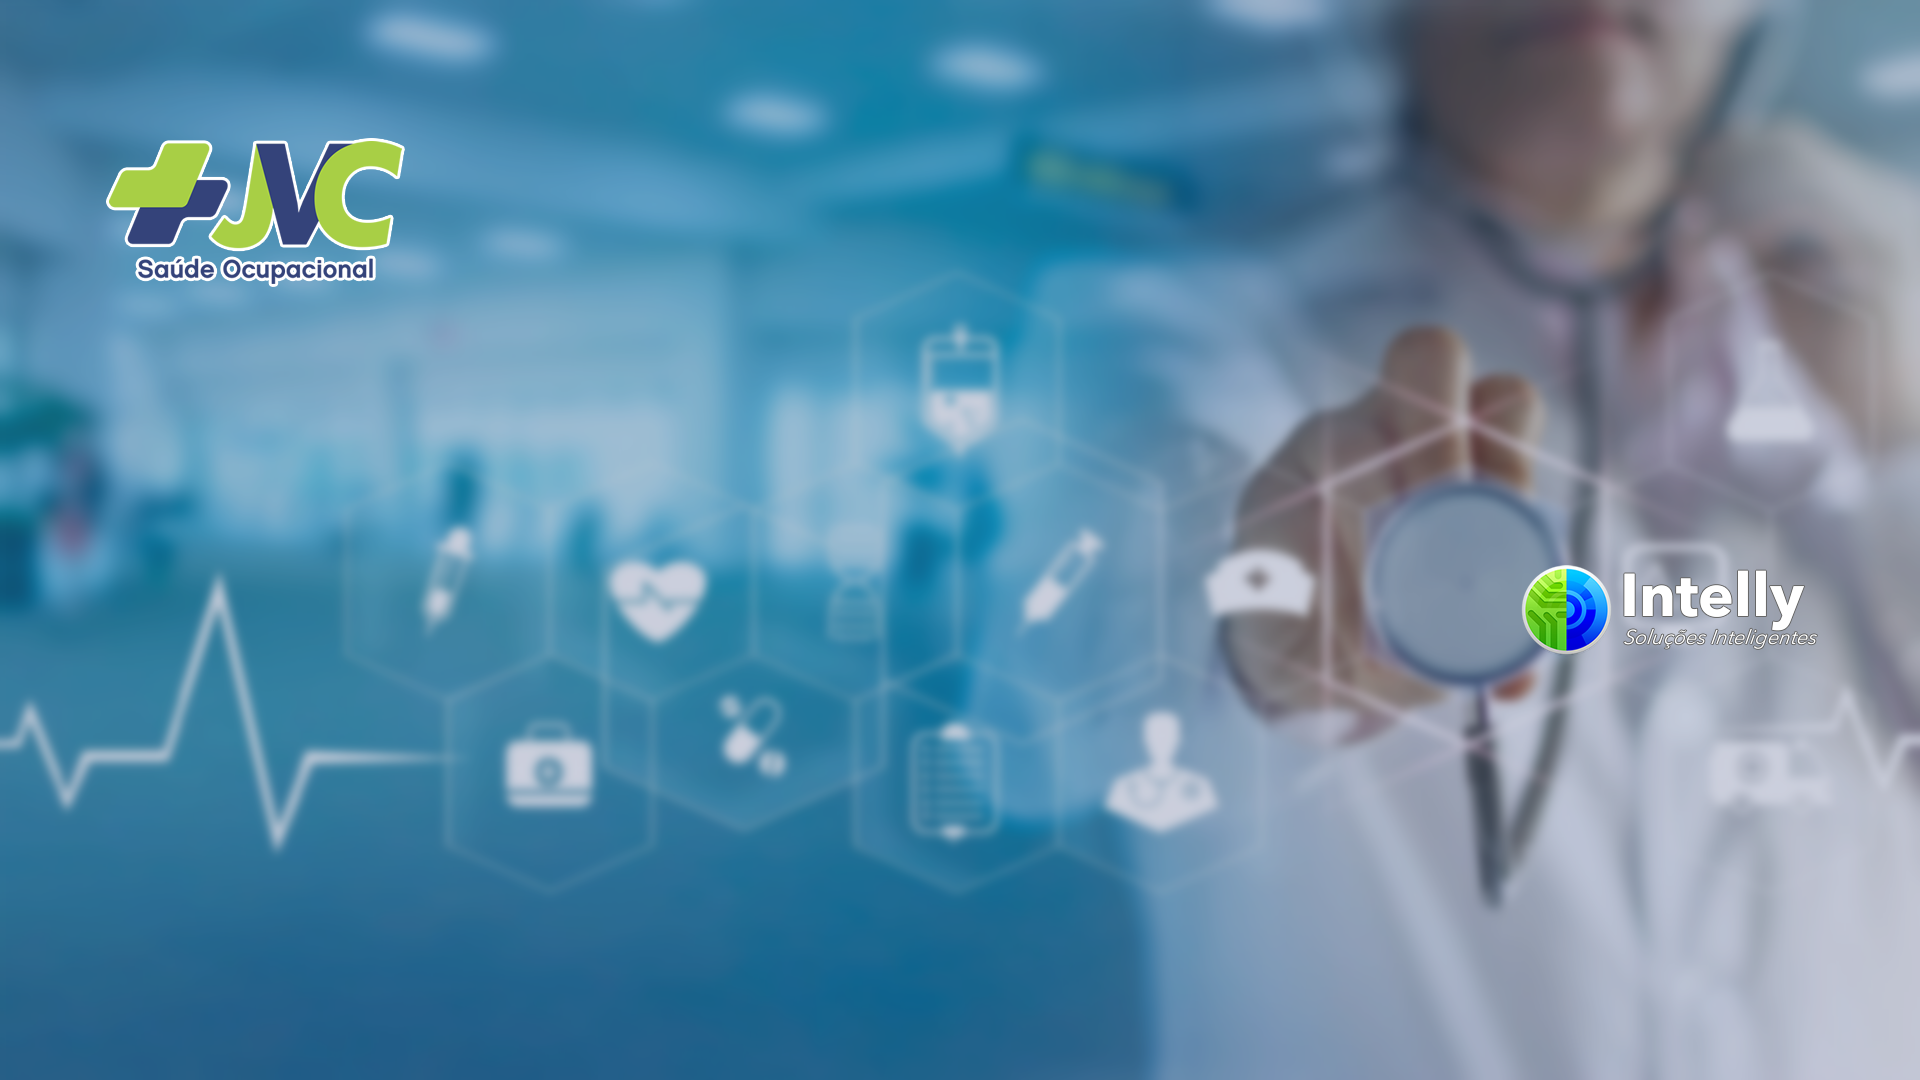
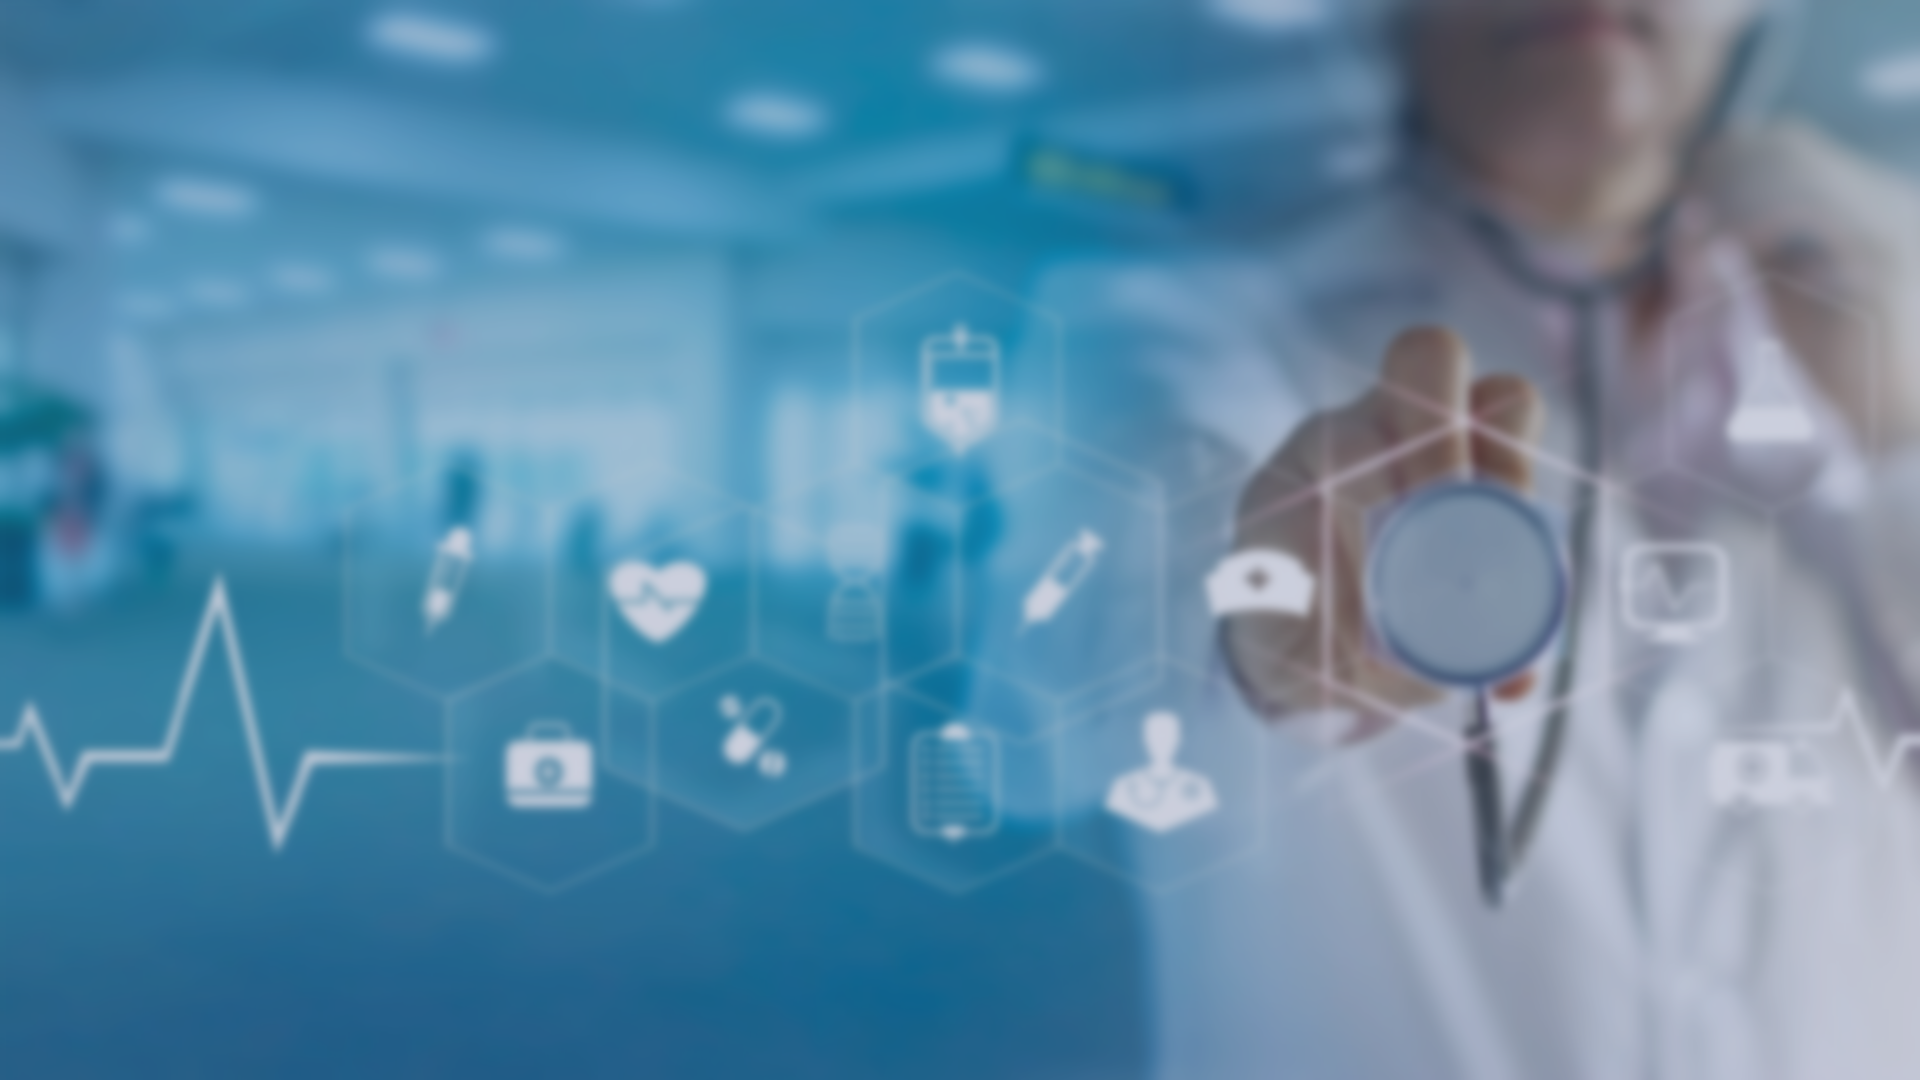
Add files via upload

Changed region(s): [[0.0625, 0.1222, 0.2188, 0.275], [0.7812, 0.5194, 0.9375, 0.6111]]

diff --git a/styleForm.css b/styleForm.css
@@ -1,7 +1,7 @@
 #form{
-    width: 500px;
-    height: 420px;
-    border-radius: 15px;
+    width: 800px;
+    height: 500px;
+    border-radius: 40px;
     justify-content: center;
     align-items: center;
     background-color: white;
@@ -11,38 +11,35 @@
     position: relative;
     margin-left: auto;
     margin-right: auto;
-    margin-top: 200px;
+    margin-top: 20px;
 }
 
 #name {
-    text-align: center;
     font-size: 35px;
     font-family: "Arial Bold", sans-serif;
-    border-radius: 15px 15px 15px 15px;
-    margin: 0px;
+    border-radius: 40px 40px 40px 40px;
+    margin-left: 150px;
+    margin-top: 10px;
     padding: 10px;
+    width: 476px;
+    border: solid 2px;
+    border-color: #34437a;
+    outline: 0;
 }
 
 #consultorio {
     text-align: center;
     font-size: 35px;
     font-family: "Arial Bold", sans-serif;
-    border-radius: 15px 15px 15px 15px;
-    margin: 0px;
+    border-radius: 40px 40px 40px 40px;
+    margin-left: 150px;
+    margin-top: 10px;
     padding: 10px;
 }
 
 label {
     display: block;
     margin-top: 10px;
-}
-
-#name {
-    padding: 10px;
-    width: 476px;
-    border: solid 2px;
-    border-color: #34437a;
-    outline: 0;
 }
 
 #consultorio {
@@ -58,7 +55,7 @@ label {
     font-size: 30px;
     font-family: "Arial Bold", sans-serif;
     text-align: center;
-    margin-top: 0px;
+    margin-top: 20px;
     padding: 5px;
 }
 
@@ -74,31 +71,59 @@ label {
 #botao {
     padding: 15px 32px;
     border: 2px;
-    color: white;
+    color: #34437a;
     text-align: center;
-    background-color: #34437a;
+    background-color: white;
     text-decoration: none;
     display: inline-block;
-    font-size: 16px;
+    font-size: 20px;
     border-radius: 15px;
-    margin-top: 20px;
-    margin-left: 200px;
+    margin-top: 45px;
+    margin-left: 34%;
+    width: 250px;
+    transition-duration: 0.4s;
+    border: solid 2px #34437a;
+}
+
+#botao:hover {
+    background-color: #34437a;
+    color: white;
 }
 
 body{
-    background-image: url(background_form.fw.png);
+    background-image: url(background_finish.fw.png);
 }
 
 #clickMe {
     padding: 15px 32px;
+    color: #a8cf45;
     border: 2px;
-    color: white;
     text-align: center;
-    background-color: #a8cf45;
     text-decoration: none;
     display: inline-block;
-    font-size: 16px;
+    font-size: 20px;
     border-radius: 15px;
+    border: solid 2px #a8cf45;
     margin-top: 20px;
-    margin-left: 175px;
+    margin-left: 34%;
+    width: 250px;
+    transition-duration: 0.4s;
+    background-color: white;
+}
+
+#clickMe:hover {
+    background-color: #a8cf45;
+    color: white;
+}
+
+#logoJvc {
+    padding: none;
+    margin-left: 42%;
+    margin-right: 58%;
+}
+
+#logoIntelly {
+    padding: none;
+    margin-left: 42%;
+    margin-right: 58%;
 }

diff --git a/styleIndex.css b/styleIndex.css
@@ -5,8 +5,9 @@
     color: azure;
     font-size: 35px;
     font-family: "Arial Bold", sans-serif;
-    border-radius: 15px 15px 0px 0px;
-    margin: 0px;
+    border-radius: 30px 30px 0px 0px;
+    padding-top: 10px;
+    margin-top: 0px;
 }
 #anterior {
     background-color: #a8cf45;
@@ -14,39 +15,45 @@
     font-size: 35px;
     font-family: "Arial Bold", sans-serif;
     text-align: center;
-    border-radius: 15px 15px 0px 0px;
-    margin: 0px;
-
+    border-radius: 30px 30px 0px 0px;
+    padding-top: 10px;
+    margin-top: 0px;
 }
 
 #atual {
-    border-color: #34437a;
-    width: 50%;
-    border-radius: 15px;
-    justify-content: center;
-    align-items: center;
-    margin-top: 40px;
-    margin-left: auto;
-    margin-right: auto;
+    text-align: center;
+    border-radius: 30px;
     background-color: azure;
     box-shadow: 0 0 1em black;
     opacity: 0.8;
+    width: 800px;
+    display: inline-grid;
+    margin-right: 15px;
+    margin-left: 7%;
+    margin-top: 20px;
+    height: 500px;
 }
 
 #dadosAnteriores {
     text-align: center;
-    width: 50%;
-    border-radius: 15px;
-    margin: auto;
+    border-radius: 30px;
     background-color: azure;
     box-shadow: 0 0 1em black;
     opacity: 0.8;
+    width: 800px;
+    display: inline-grid;
+    margin-left: 15px;
+    margin-top: 20px;
+    margin-right: 6%;
+    height: 500px;
 }
 
 #tagNome1 {
     font-size: 35px;
     font-family: "Arial Bold", sans-serif;
     text-align: center;
+    margin-top: 20px;
+    margin-bottom: 0px;
 }
 
 #nome {
@@ -54,12 +61,14 @@
     font-size: 43px;
     color: #34437a;
     text-align: center;
+    margin-bottom: 0px;
 }
 
 #tagConsultorio1 {
     font-family: "Arial Bold", sans-serif;
     font-size: 35px;
     text-align: center;
+    margin-bottom: 0px;
 }
 
 #consultorio {
@@ -73,17 +82,24 @@
 #tagNome2 {
     font-size: 35px;
     font-family: Arial, Helvetica, sans-serif;
+    text-align: center;
+    margin-top: 20px;
+    margin-bottom: 0px;
 }
 
 #nomeAnterior {
     font-size: 43px;
     font-family: Arial, Helvetica, sans-serif;
     color: #a8cf45;
+    margin-bottom: 0px;
+    text-align: center;
 }
 
 #tagConsultorio2 {
     font-family: "Arial Bold", sans-serif;
     font-size: 35px;
+    text-align: center;
+    margin-bottom: 0px;
 }
 
 #consultorioAnterior {
@@ -95,4 +111,16 @@
 
 body{
     background-image: url(background_finish.fw.png);
+}
+
+#logoJvc {
+    padding: none;
+    margin-left: 42%;
+    margin-right: 58%;
+}
+
+#logoIntelly {
+    padding: none;
+    margin-left: 42%;
+    margin-right: 58%;
 }

diff --git a/index.html b/index.html
@@ -13,24 +13,29 @@
     </head>
 
     <body>
+            <header>
+                <div id="logoJvc" >
+                    <img id="imagemLogo"src="logoJvc.png"/>
+                </div>
+            </header>
 
-        <div id="atual">
-            <h1 id="dadosAtuais">Atual</h1>
-            <p id="tagNome1">Nome:</p>
-            <h1 id="nome">Nome</h1>
-            <p id="tagConsultorio1">Consultório:</p>
-            <h2 id="consultorio">Consultório</h2>
-        </div>
-        <br>
-        <div id="dadosAnteriores">
-            <h1 id="anterior">Anterior</h1>
-            <p id="tagNome2">Nome:</p>
-            <h1 id="nomeAnterior">Nome anterior</h1>
-            <p id="tagConsultorio2">Consultório:</p>
-            <h2 id="consultorioAnterior">Consultório anterior</h2>
-        </div>
+            <section id="atual">
+                <h1 id="dadosAtuais">Atual</h1>
+                <p id="tagNome1">Nome:</p>
+                <h1 id="nome">Nome</h1>
+                <p id="tagConsultorio1">Consultório:</p>
+                <h2 id="consultorio">Consultório</h2>
+            </section>
 
-        <audio src="chamada.wav" autoplay="true"></audio>
+            <section id="dadosAnteriores">
+                <h1 id="anterior">Anterior</h1>
+                <p id="tagNome2">Nome:</p>
+                <h1 id="nomeAnterior">Nome anterior</h1>
+                <p id="tagConsultorio2">Consultório:</p>
+                <h2 id="consultorioAnterior">Consultório anterior</h2>
+            </section>
+
+            <audio src="chamada.wav" autoplay="true"></audio>
 
         <script>
 
@@ -55,6 +60,13 @@
             document.getElementById("consultorioAnterior").innerHTML = dados3['consultorio'];
 
         </script>
+
+        <footer>
+            <div id="logoIntelly" >
+                <img id="imagemLogoIntelly"src="logoIntelly2.png"/>
+            </div>
+        </footer>
+
     </body>
 
 </html>

diff --git a/form.html b/form.html
@@ -14,6 +14,12 @@
 
 <body>
     <!-- paginaDois.html -->
+    <header>
+        <div id="logoJvc" >
+            <img id="imagemLogo"src="logoJvc.png"/>
+        </div>
+    </header>
+
     <div id="form">
         <form action="index.html" method="post" id="formulario">
             <div>
@@ -36,6 +42,13 @@
         ">Limpar dados</button>
     </div>
     <script src="application.js"></script>
+
+    <footer>
+        <div id="logoIntelly" >
+            <img id="imagemLogoIntelly"src="logoIntelly2.png"/>
+        </div>
+    </footer>
+
 </body>
 
 </html>
